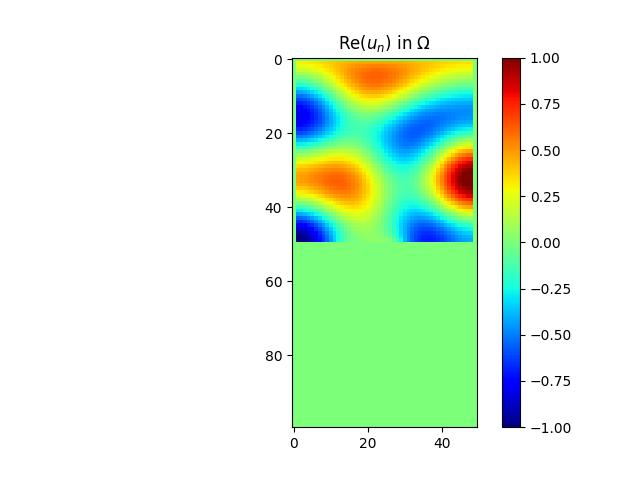
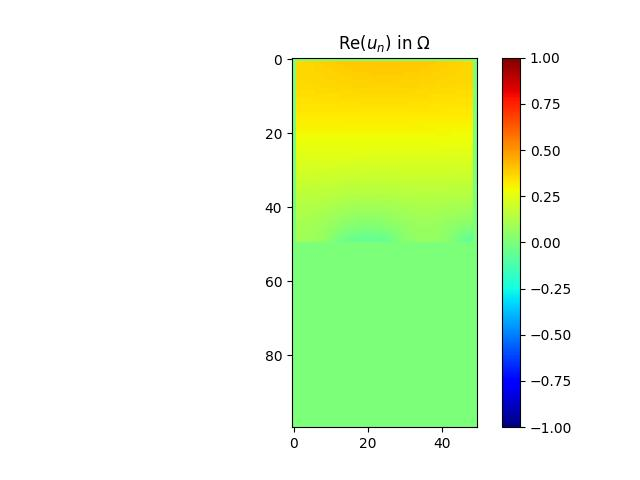
l'algo marche !

Changed region(s): [[0.4375, 0.125, 0.75, 0.5312]]

diff --git a/demo_control_polycopie2023.py b/demo_control_polycopie2023.py
@@ -86,6 +86,26 @@ def compute_projected(chi, domain, V_obj):
 
     return chi
 
+        
+def integral(chi):
+    integral = 0.0
+    for i in range(M):
+        for j in range(N):
+            integral += chi[i,j]*spacestep
+    return integral
+
+def projection_finale(chi, V_obj): 
+    table = []
+    for i in range (M):
+         for j in range (N):
+              table.append((chi[i,j],(i,j)))
+
+    table= sorted(table)
+    chi1=numpy.zeros(M,N)
+    for index in range (int(V_obj*N)):
+
+    
+    return chi 
 
 def optimization_procedure(domain_omega, spacestep, omega, f, f_dir, f_neu, f_rob,
                            beta_pde, alpha_pde, alpha_dir, beta_neu, beta_rob, alpha_rob,
@@ -102,73 +122,63 @@ def optimization_procedure(domain_omega, spacestep, omega, f, f_dir, f_neu, f_ro
     k = 0
     (M, N) = numpy.shape(domain_omega)
     numb_iter = 5
-    #-----Definition of the epsilons--------
     epsilon_0 = 10 ** -5
-    epsilon_1 = 10 ** -2
-    epsilon_2 = 10 ** -3
-    #-----End epsilons---------------
+   
 
     energy = numpy.zeros((numb_iter+1, 1), dtype=numpy.float64)
     while k < numb_iter and mu > 10**(-5):
-        # print('---- iteration number = ', k)
+        print('---- iteration number = ', k)
         # print('1. computing solution of Helmholtz problem, i.e., u')
-        # print('2. computing solution of adjoint problem, i.e., p')
-        # print('3. computing objective function, i.e., energy')
-        # print('4. computing parametric gradient')
-        #solution helmotz problem 
         u = processing.solve_helmholtz(domain_omega, spacestep, omega, f, f_dir, f_neu, f_rob, beta_pde, alpha_pde, alpha_dir, beta_neu, beta_rob, alpha_rob)
+
+        # print('2. computing solution of adjoint problem, i.e., p')
         p = processing.solve_helmholtz(domain_omega, spacestep, omega, -2*numpy.conjugate(u),numpy.zeros((M,N)), f_neu, f_rob, beta_pde, alpha_pde, alpha_dir, beta_neu, beta_rob, alpha_rob)
+
+        # print('3. computing objective function, i.e., energy')
         energy[k] = compute_objective_function(domain_omega, u, spacestep)
-        
+
+        # print('4. computing parametric gradient')
         grad = numpy.zeros((M,N))
         for i in range(M):
             for j in range(N):
-                if processing.is_on_robin_boundary([domain_omega[i,j]]):
-                    grad += - numpy.real(Alpha*u[i,j]*p[i,j])*spacestep
+                # if processing.is_on_robin_boundary([domain_omega[i,j]]):
+                grad[i,j] += - numpy.real(Alpha*u[i,j]*p[i,j])
+        print(numpy.linalg.norm(grad))
+
+        #solution helmotz problem 
+        
+
         ene = energy[k]
-        
-        def integral(chi):
-            integral = 0.0
-            for i in range(M):
-                for j in range(N):
-                    integral += chi[i,j]*spacestep
-            return integral
-        
-        def projection_max(chi, l): 
-            for i in range(M):
-                for j in range(N): 
-                    chi[i,j] = max(0, min(compute_gradient_descent(chi, grad, domain_omega, mu)[i,j]+l,1))
-            return chi 
-        
 
-                    
         while ene >= energy[k] and mu > epsilon_0:
+            
             l = 0
-            chi = compute_projected(chi, domain_omega, V_obj)
-
-            while numpy.abs(integral(chi)-V_obj) >= epsilon_1:
-                if integral(chi) >= V_obj:
-                    l -= epsilon_2
-                else: 
-                    l += epsilon_2
-                chi = compute_projected(chi, domain_omega, V_obj)
-            print('    a. computing gradient descent')
+            
+            # print('    a. computing gradient descent')
+            chi = compute_gradient_descent(chi,grad, domain_omega, mu)
+            
             # print('    b. computing projected gradient')
+            chi = compute_projected(chi, domain_omega, V_obj)
+            print(numpy.linalg.norm(chi-chi0))
             # print('    c. computing solution of Helmholtz problem, i.e., u')
-            # print('    d. computing objective function, i.e., energy (E)')
             alpha_rob = Alpha*chi # Mettre à jour le coefficient alpha_rob pour le nouveau chi_k+1
             u = processing.solve_helmholtz(domain_omega, spacestep, omega, f, f_dir, f_neu, f_rob, beta_pde, alpha_pde, alpha_dir, beta_neu, beta_rob, alpha_rob)
+
+            # print('    d. computing objective function, i.e., energy (E)')
             ene = compute_objective_function(domain_omega, u, spacestep)
+            
             if ene < energy[k]:
                 # The step is increased if the energy decreased
-                mu *= 1.1
+                mu += 0.01
             else:
                 # The step is decreased is the energy increased
-                mu = mu / 2
+                mu = mu/ 2
         k += 1
 
     print('end. computing solution of Helmholtz problem, i.e., u')
-
+    alpha_rob = Alpha*chi
+    u = processing.solve_helmholtz(domain_omega, spacestep, omega, f, f_dir, f_neu, f_rob, beta_pde, alpha_pde, alpha_dir, beta_neu, beta_rob, alpha_rob)
+    chi = projection_max(chi)
     return chi, energy, u, grad
 
 
@@ -191,7 +201,7 @@ def compute_objective_function(domain_omega, u, spacestep):
 
     for i in range(M):
         for j in range(N):
-                energy += (numpy.abs(u[i, j]) ** 2) * (spacestep ** 2)
+                energy += (numpy.real(u[i, j]) ** 2 + numpy.imag(u[i,j])**2) * (spacestep ** 2)
 
     return energy
 
@@ -211,7 +221,7 @@ if __name__ == '__main__':
     kx = -1.0
     ky = -1.0
     wavenumber = numpy.sqrt(kx**2 + ky**2)  # wavenumber
-    wavenumber = 10.0
+    #wavenumber = 10.0
 
     # ----------------------------------------------------------------------
     # -- Do not modify this cell, these are the values that you will be assessed against.
@@ -261,7 +271,7 @@ if __name__ == '__main__':
                 S += 1
     V_0 = 1  # initial volume of the domain
     V_obj = numpy.sum(numpy.sum(chi)) / S  # constraint on the density
-    mu = 5  # initial gradient step
+    mu = 5 # initial gradient step
     mu1 = 10**(-5)  # parameter of the volume functional
 
     # ----------------------------------------------------------------------
